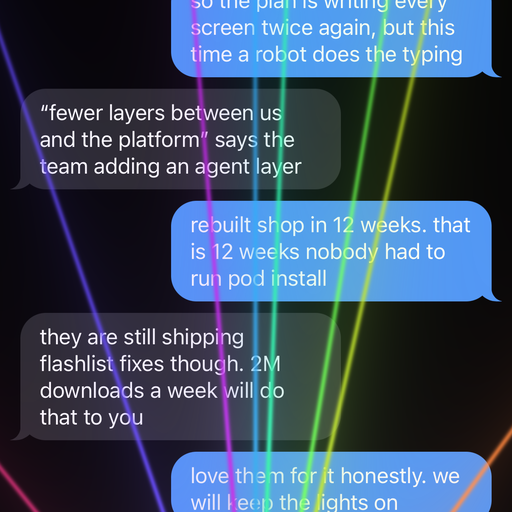
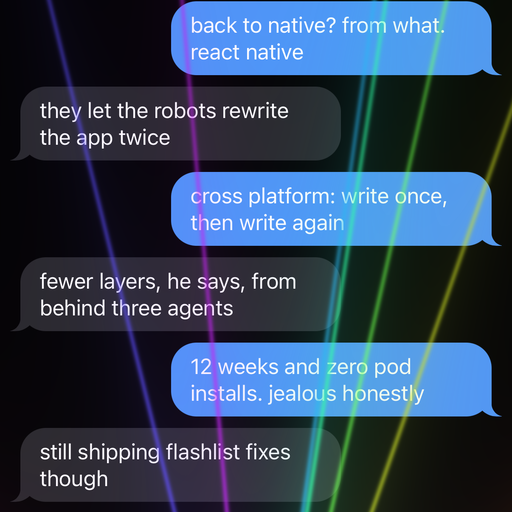
fix: shorten the iMessage seed conversation
Eight one-line texts about Shopify's move back to native, without the
lecture. Thumbnail recaptured with the new bubbles.

Claude-Session: https://claude.ai/code/session_01MYgJDumHFGETXWCh37fS7V

diff --git a/example/src/hooks/useIMessageEffects.ts b/example/src/hooks/useIMessageEffects.ts
@@ -11,62 +11,62 @@ import {
 // has something to anchor the effect to.
 export const EFFECT_START_DELAY_MS = 150;
 
-// Two React Native people reading Shopify's "back to native" post together.
-// Fond, not bitter: the jokes are about the reasoning, not the people.
+// Two React Native people reading Shopify's back-to-native post together.
+// Short, fond, a little smug: the jokes are about the reasoning, not the people.
 const SEED: Message[] = [
   {
     id: 's1',
     from: 'them',
-    text: 'did you see shopify is going back to native',
+    text: 'shopify is going back to native 💀',
     effect: 'none',
     time: '9:41',
   },
   {
     id: 's2',
     from: 'me',
-    text: 'back to native? react native is native. the clue is in the name',
+    text: 'back to native? from what. react native',
     effect: 'none',
     time: '9:41',
   },
   {
     id: 's3',
     from: 'them',
-    text: 'january: react native is the future. september: we don\u2019t hold on to a decision just because it was successful',
+    text: 'they let the robots rewrite the app twice',
     effect: 'none',
     time: '9:42',
   },
   {
     id: 's4',
     from: 'me',
-    text: 'so the plan is writing every screen twice again, but this time a robot does the typing',
+    text: 'cross platform: write once, then write again',
     effect: 'none',
     time: '9:42',
   },
   {
     id: 's5',
     from: 'them',
-    text: '\u201cfewer layers between us and the platform\u201d says the team adding an agent layer',
+    text: 'fewer layers, he says, from behind three agents',
     effect: 'none',
     time: '9:43',
   },
   {
     id: 's6',
     from: 'me',
-    text: 'rebuilt shop in 12 weeks. that is 12 weeks nobody had to run pod install',
+    text: '12 weeks and zero pod installs. jealous honestly',
     effect: 'none',
     time: '9:43',
   },
   {
     id: 's7',
     from: 'them',
-    text: 'they are still shipping flashlist fixes though. 2M downloads a week will do that to you',
+    text: 'still shipping flashlist fixes though',
     effect: 'none',
     time: '9:44',
   },
   {
     id: 's8',
     from: 'me',
-    text: 'love them for it honestly. we will keep the lights on',
+    text: "2M downloads a week. you don't just leave that",
     effect: 'none',
     time: '9:44',
   },
